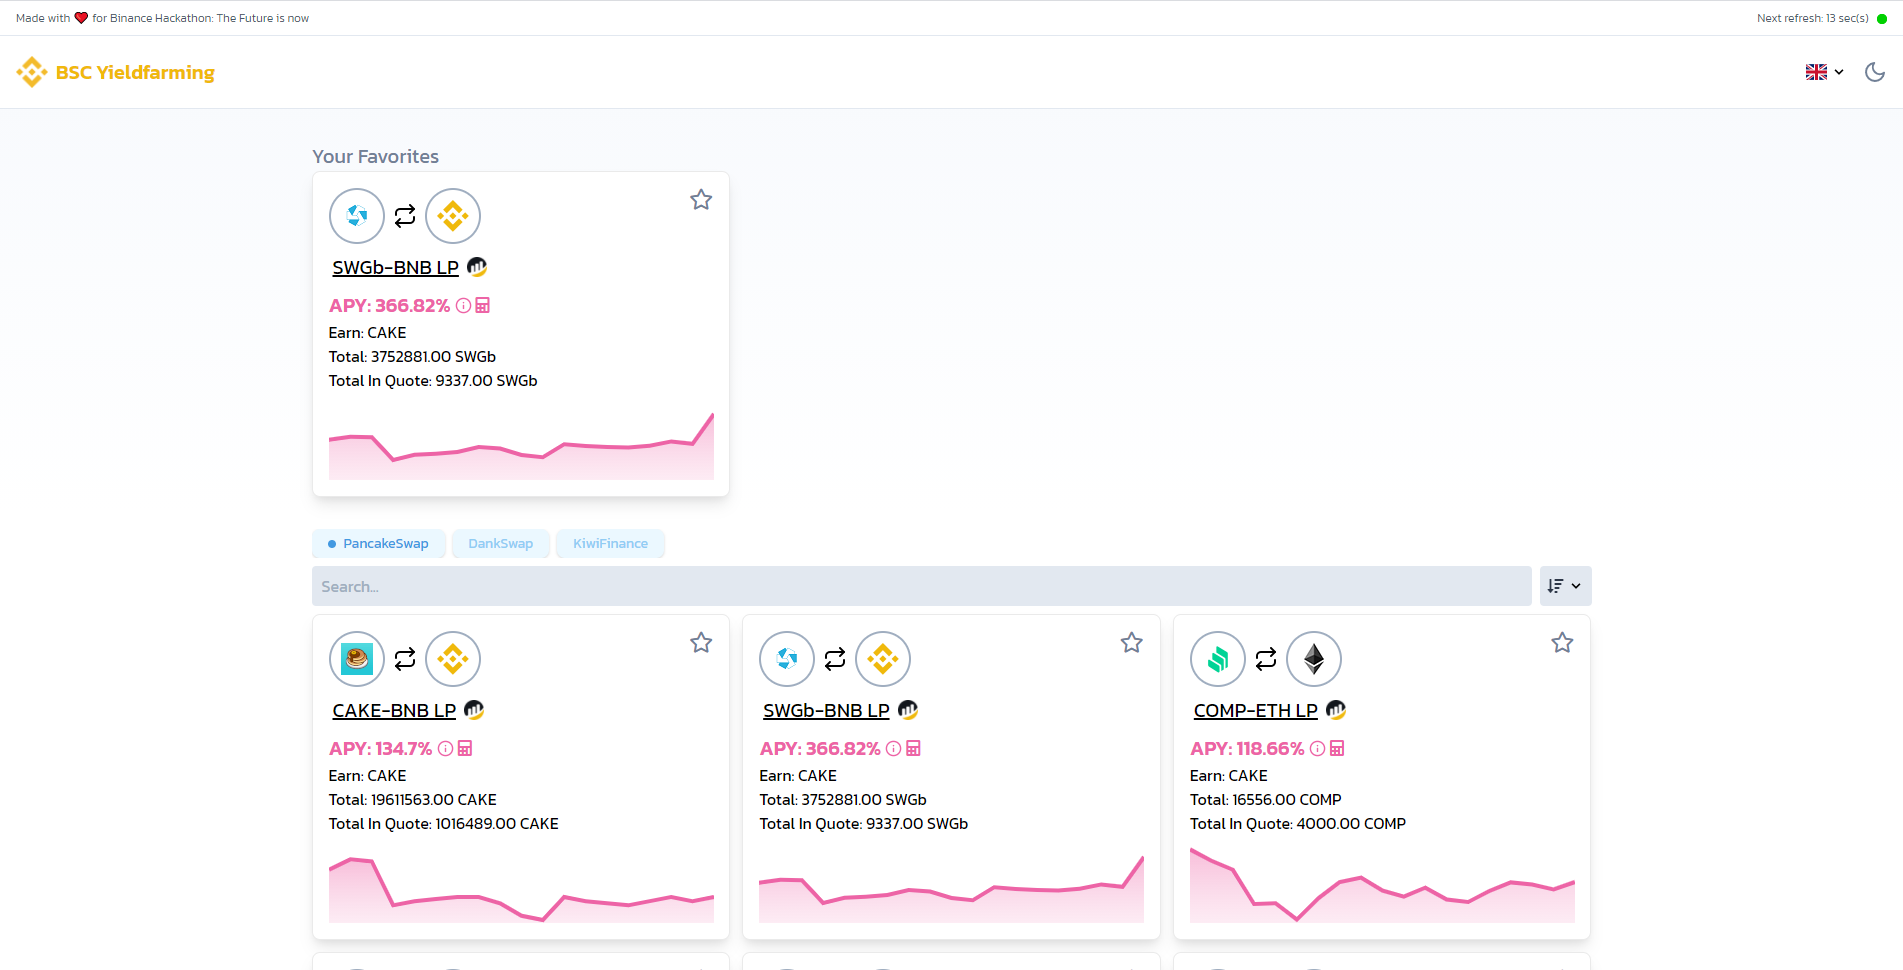
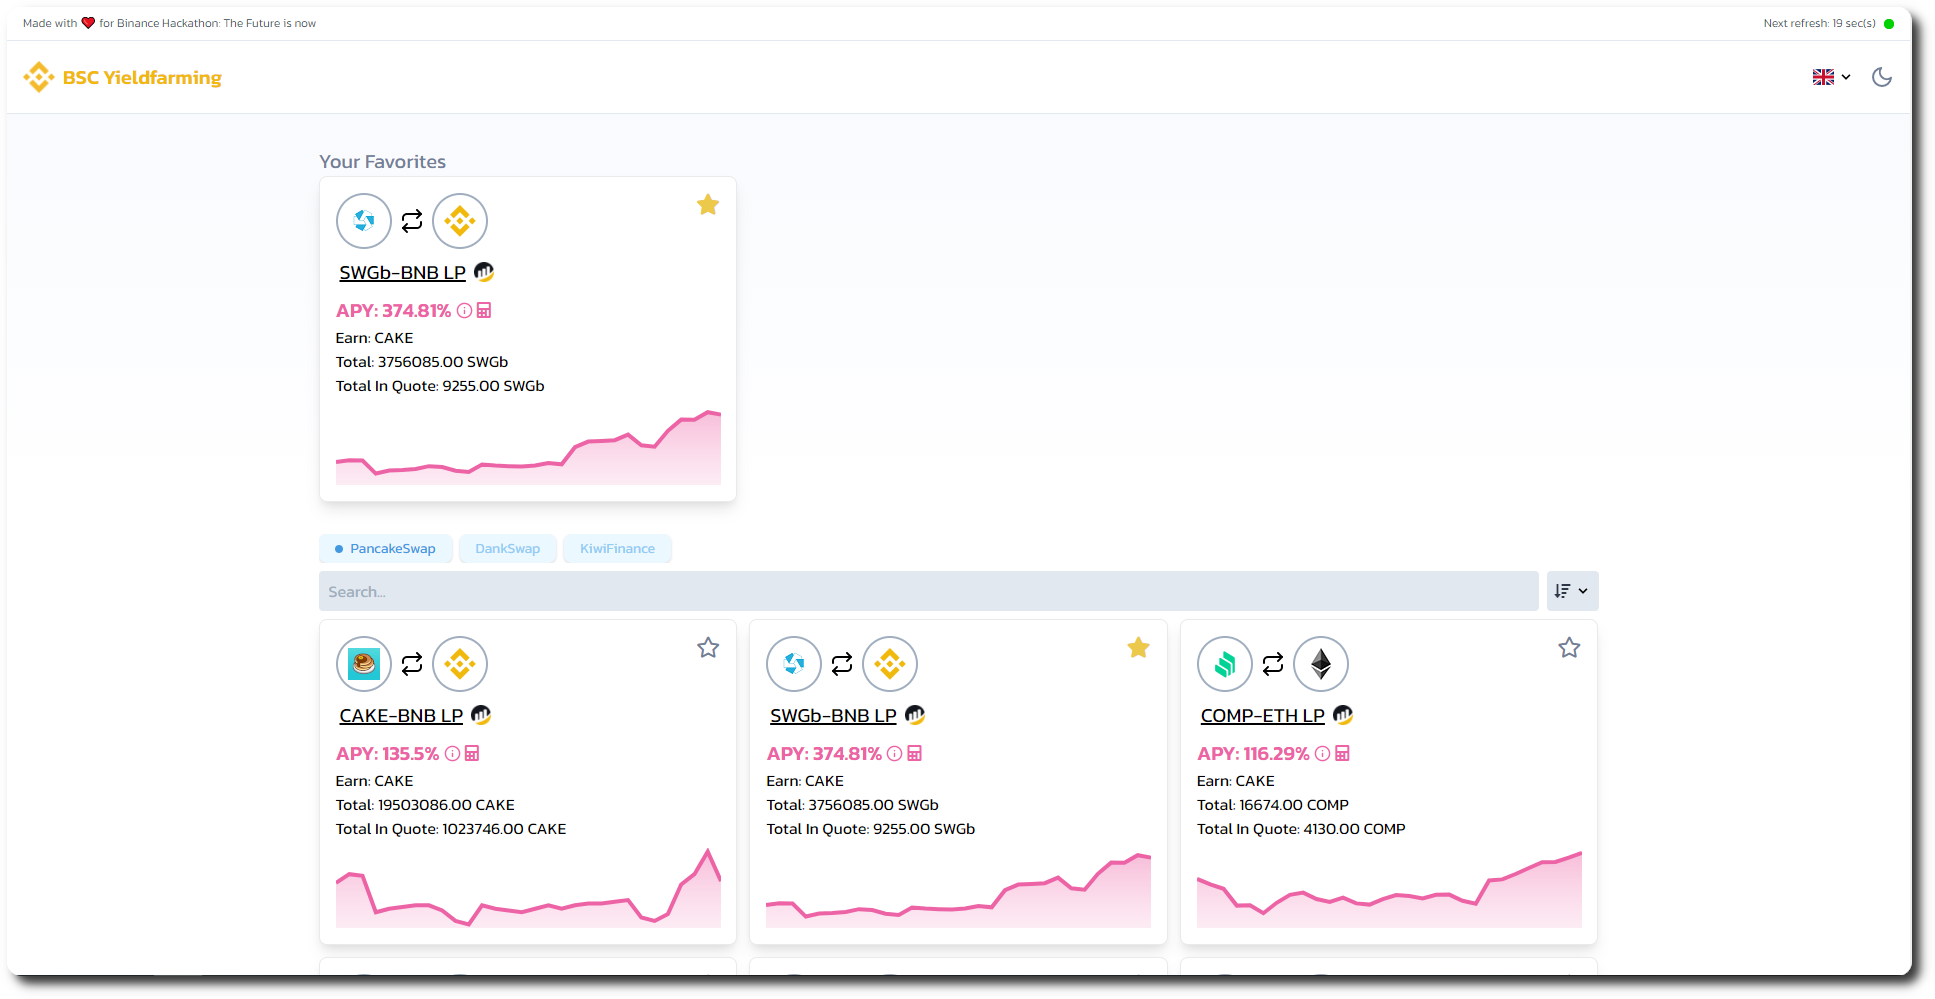
FIX: Fixed favorites not turning star yellow

diff --git a/client/components/ApyCard.vue b/client/components/ApyCard.vue
@@ -150,8 +150,11 @@ export default Vue.extend({
     token2Image (): string {
       return lpSymbolToImage(this.apy.lpSymbol, 1)
     },
+    selectedProvider (): string {
+      return this.$store.state.apy.selectedProvider
+    },
     isFavorite (): boolean {
-      return this.$store.state.apy.favorites.includes(this.apy.pid)
+      return this.$store.state.apy.favorites.includes(`${this.selectedProvider}:${this.apy.pid}`)
     },
     estReturnCalculator (): string {
       const calc = calculateEarnedPerThousandDollars({ numberOfDays: this.calculatorDuration, farmApy: this.apy.apy, price: this.price })
